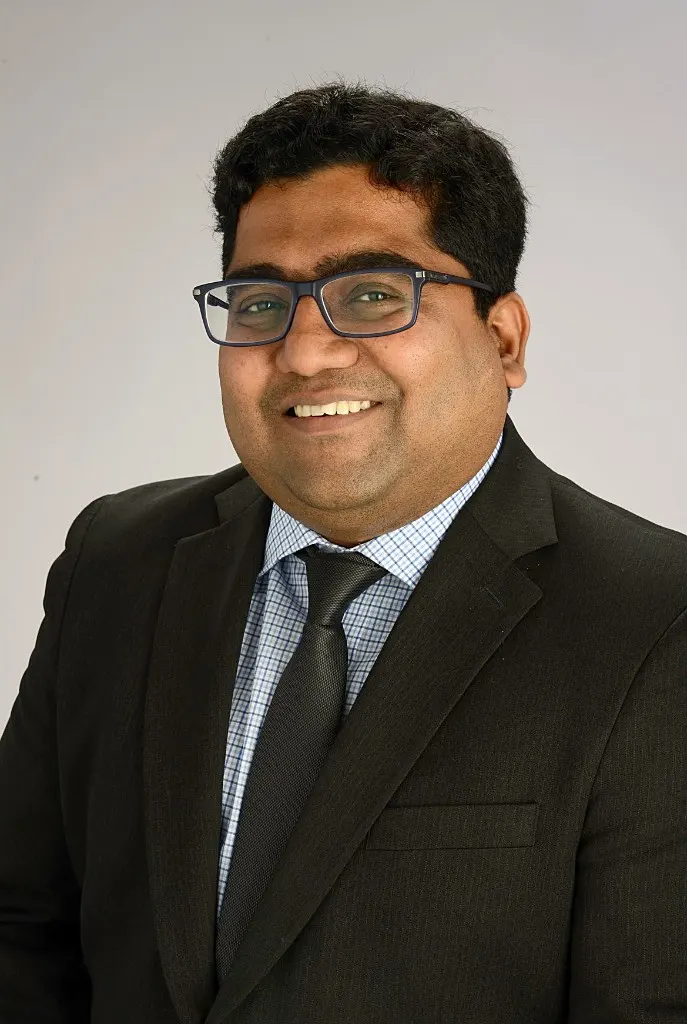
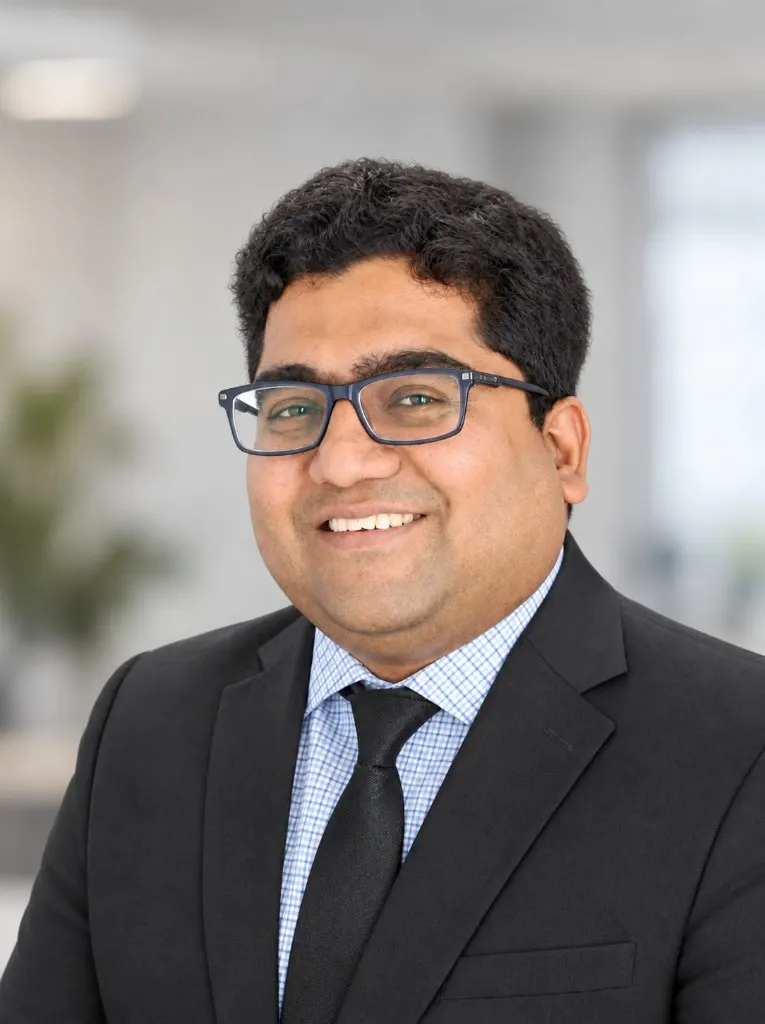
images and convener

diff --git a/src/pages/HomePage.tsx b/src/pages/HomePage.tsx
@@ -7,6 +7,7 @@ import {
   highlights,
   historicalVenue,
   homeOrganizers,
+  conveners,
   hostInstitution,
   patrons,
   primaryCta,
@@ -201,6 +202,42 @@ export function HomePage() {
                 <p className="mt-5 font-heading text-xl leading-tight text-deep-forest">{patron.name}</p>
                 <p className="mt-1 text-sm text-gold">{patron.role}</p>
                 <p className="mt-1 text-sm text-muted">{patron.institution}</p>
+              </motion.li>
+            ))}
+          </motion.ul>
+        </div>
+      </motion.section>
+
+      <motion.section
+        aria-label="Convener"
+        className="border-b border-border bg-warm-white"
+        initial="hidden"
+        whileInView="show"
+        viewport={viewport}
+        variants={stagger}
+      >
+        <div className="mx-auto max-w-6xl px-4 py-16 md:py-20">
+          <motion.div variants={fadeUp}>
+            <SectionHeading align="center" title="Convener" />
+          </motion.div>
+          <motion.ul
+            variants={stagger}
+            className="mt-12 flex flex-wrap items-start justify-center gap-14 sm:gap-24"
+          >
+            {conveners.map((person) => (
+              <motion.li key={person.name} variants={fadeUp} className="w-52 text-center">
+                <PlaceholderImage
+                  src={person.photo}
+                  alt={person.name}
+                  width={192}
+                  height={192}
+                  sizes="192px"
+                  className="mx-auto size-40 rounded-full shadow-[0_8px_24px_rgba(20,83,45,0.12)] ring-4 ring-gold/35 md:size-48"
+                  imgClassName="object-cover object-center"
+                />
+                <p className="mt-5 font-heading text-xl leading-tight text-deep-forest">{person.name}</p>
+                <p className="mt-1 text-sm text-gold">{person.role}</p>
+                <p className="mt-1 text-sm text-muted">{person.institution}</p>
               </motion.li>
             ))}
           </motion.ul>

diff --git a/src/data/constants.ts b/src/data/constants.ts
@@ -352,7 +352,7 @@ export const speakers: Speaker[] = [
   },
   {
     name: "Dr. Manas K. Santra",
-    designation: "Scientist",
+    designation: "Scientist (G)",
     institution: "BRIC-National Centre for Cell Science Pune, Maharashtra, India",
     country: "",
     photo: SITE_IMAGES.SPEAKER_MANAS.src,
@@ -361,7 +361,7 @@ export const speakers: Speaker[] = [
   },
   {
     name: "Dr. Syed G. Dastager",
-    designation: "Microbiologist and Scientist",
+    designation: "Microbiologist and Scientist (F)",
     institution: "CSIR–National Chemical Laboratory (NCL), Pune, Maharashtra, India",
     country: "",
     photo: SITE_IMAGES.SPEAKER_DASTAGER.src,
@@ -403,6 +403,22 @@ export const patrons = [
     role: "President",
     institution: "M.C.E. Society",
     photo: SITE_IMAGES.MRS_ABEDA_INAMDAR.src,
+  },
+];
+
+/** Shown on the home page directly under Patrons. */
+export const conveners = [
+  {
+    name: "Prof. Shaila Bootwala",
+    role: "Principal",
+    institution: "Abeda Inamdar Senior College, Pune",
+    photo: SITE_IMAGES.PROF_SHAILA_BOOTWALA.src,
+  },
+  {
+    name: "Dr. Khursheed Ahmed",
+    role: "H.O.D. Convener",
+    institution: "Abeda Inamdar Senior College, Pune",
+    photo: SITE_IMAGES.DR_KHURi66SHEED_AHMED.src,
   },
 ];
 

diff --git a/src/data/images.ts b/src/data/images.ts
@@ -191,14 +191,19 @@ export const SITE_IMAGES = {
     alt: "Dr. P. A. Inamdar",
   },
   PROF_SHAILA_BOOTWALA: {
-    id: "img-42",
+    id: "img-45",
     src: "/conference-assets/people/img-42-prof-shaila-bootwala-face.webp",
     alt: "Prof. Shaila Bootwala",
   },
+  DR_KHURSHEED_AHMED: {
+    id: "img-44",
+    src: "/conference-assets/people/img-44-dr-khursheed-ahmed-face.webp",
+    alt: "Dr. Khursheed Ahmed",
+  },
   SPEAKER_DASTAGER: {
     id: "spk-01",
-    src: "/Speaker/dastager.svg",
-    alt: "Dastager",
+    src: "/Speaker/Dastagir.webp",
+    alt: "Dastagir",
   },
   SPEAKER_ISHTIAQ_JEELANI: {
     id: "spk-02",
@@ -217,7 +222,7 @@ export const SITE_IMAGES = {
   },
   SPEAKER_NIYAZ: {
     id: "spk-05",
-    src: "/Speaker/niyaz1.svg",
+    src: "/Speaker/Niyaz.webp",
     alt: "Niyaz",
   },
   SPEAKER_PRASAD: {
@@ -239,6 +244,11 @@ export const SITE_IMAGES = {
     id: "spk-09",
     src: "/Speaker/suhel1.svg",
     alt: "Suhel",
+  },
+  DR_KHURSHEED: {
+    id: "spk-10",
+    src: "/Speaker/Dr-Khursheed.webp",
+    alt: "Dr. Khursheed",
   },
   MEMBERS: {
     id: "img-29",
